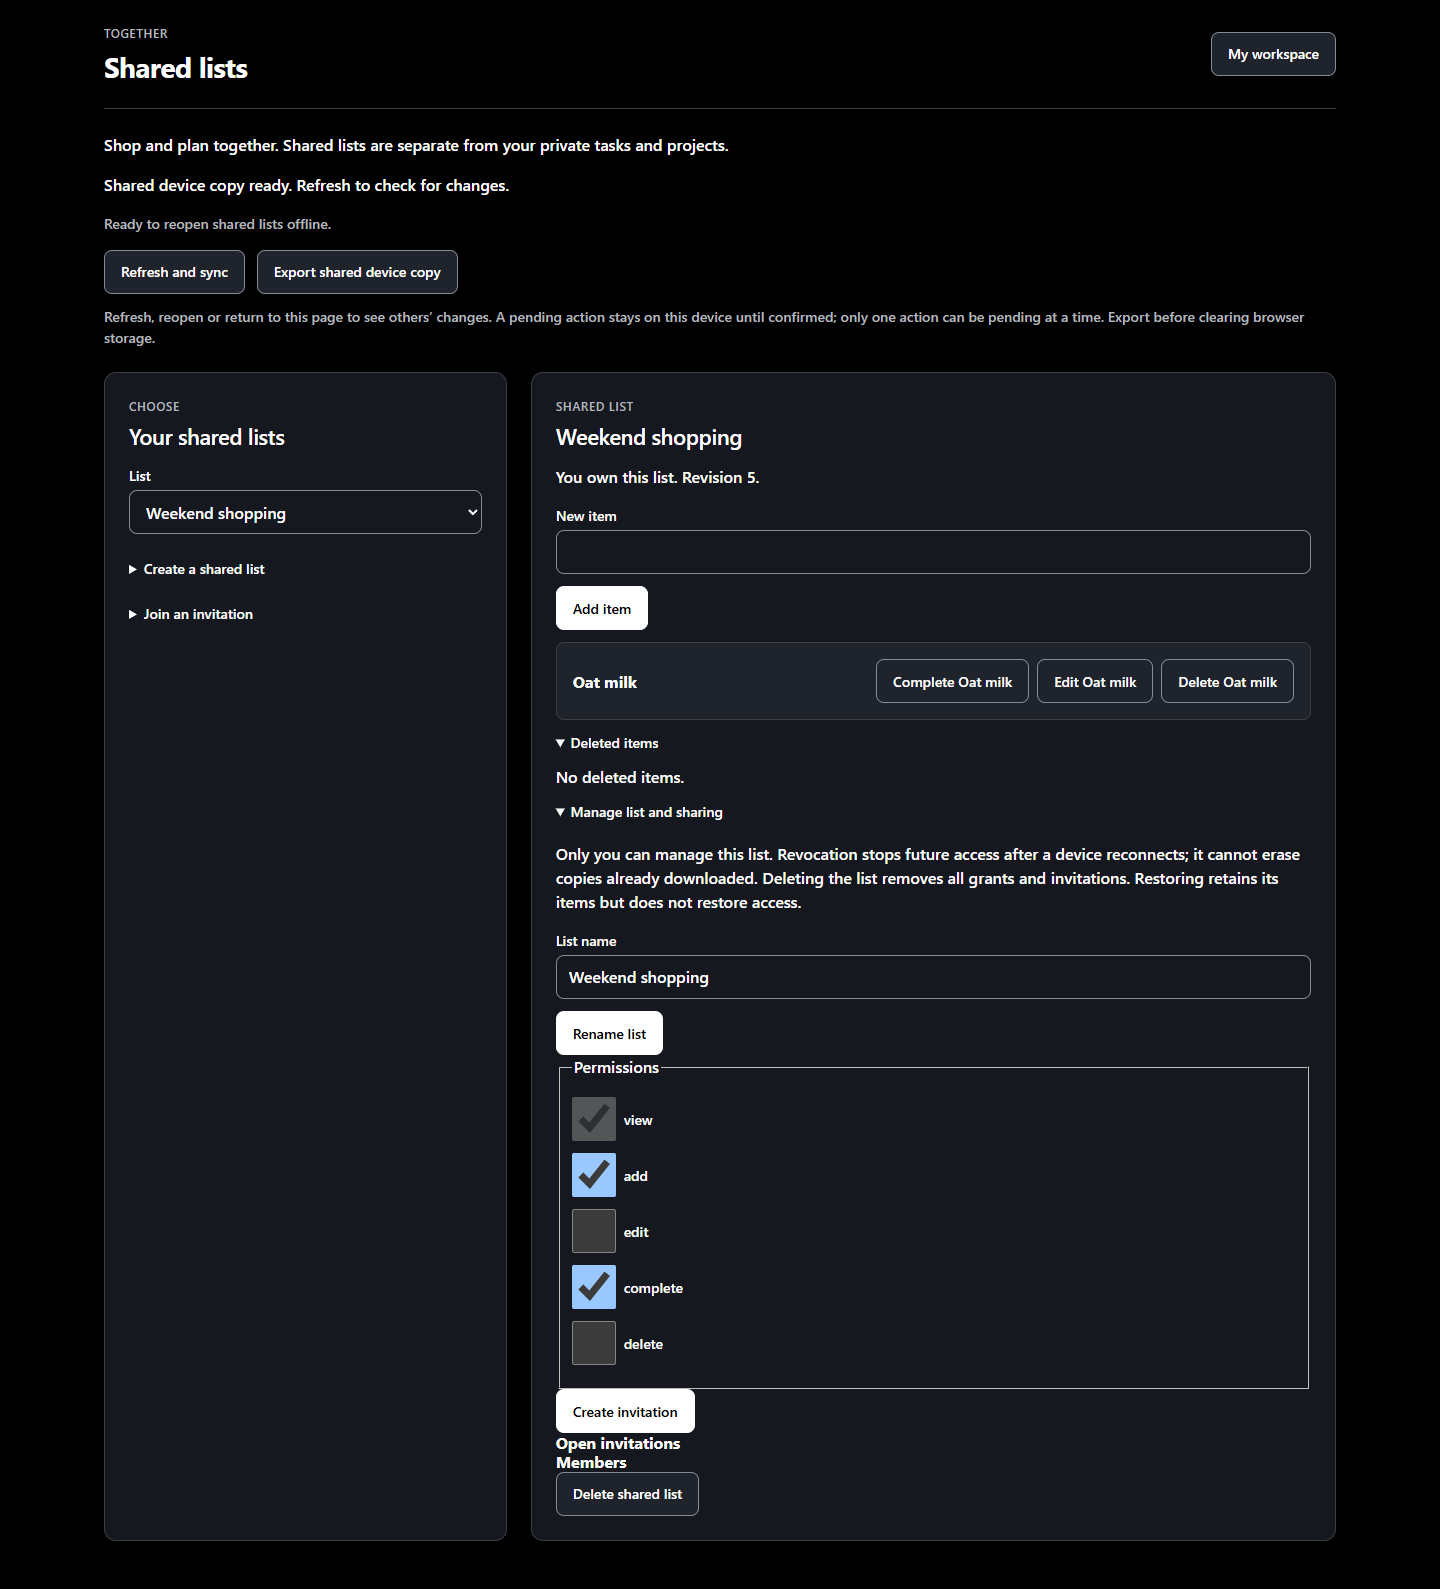
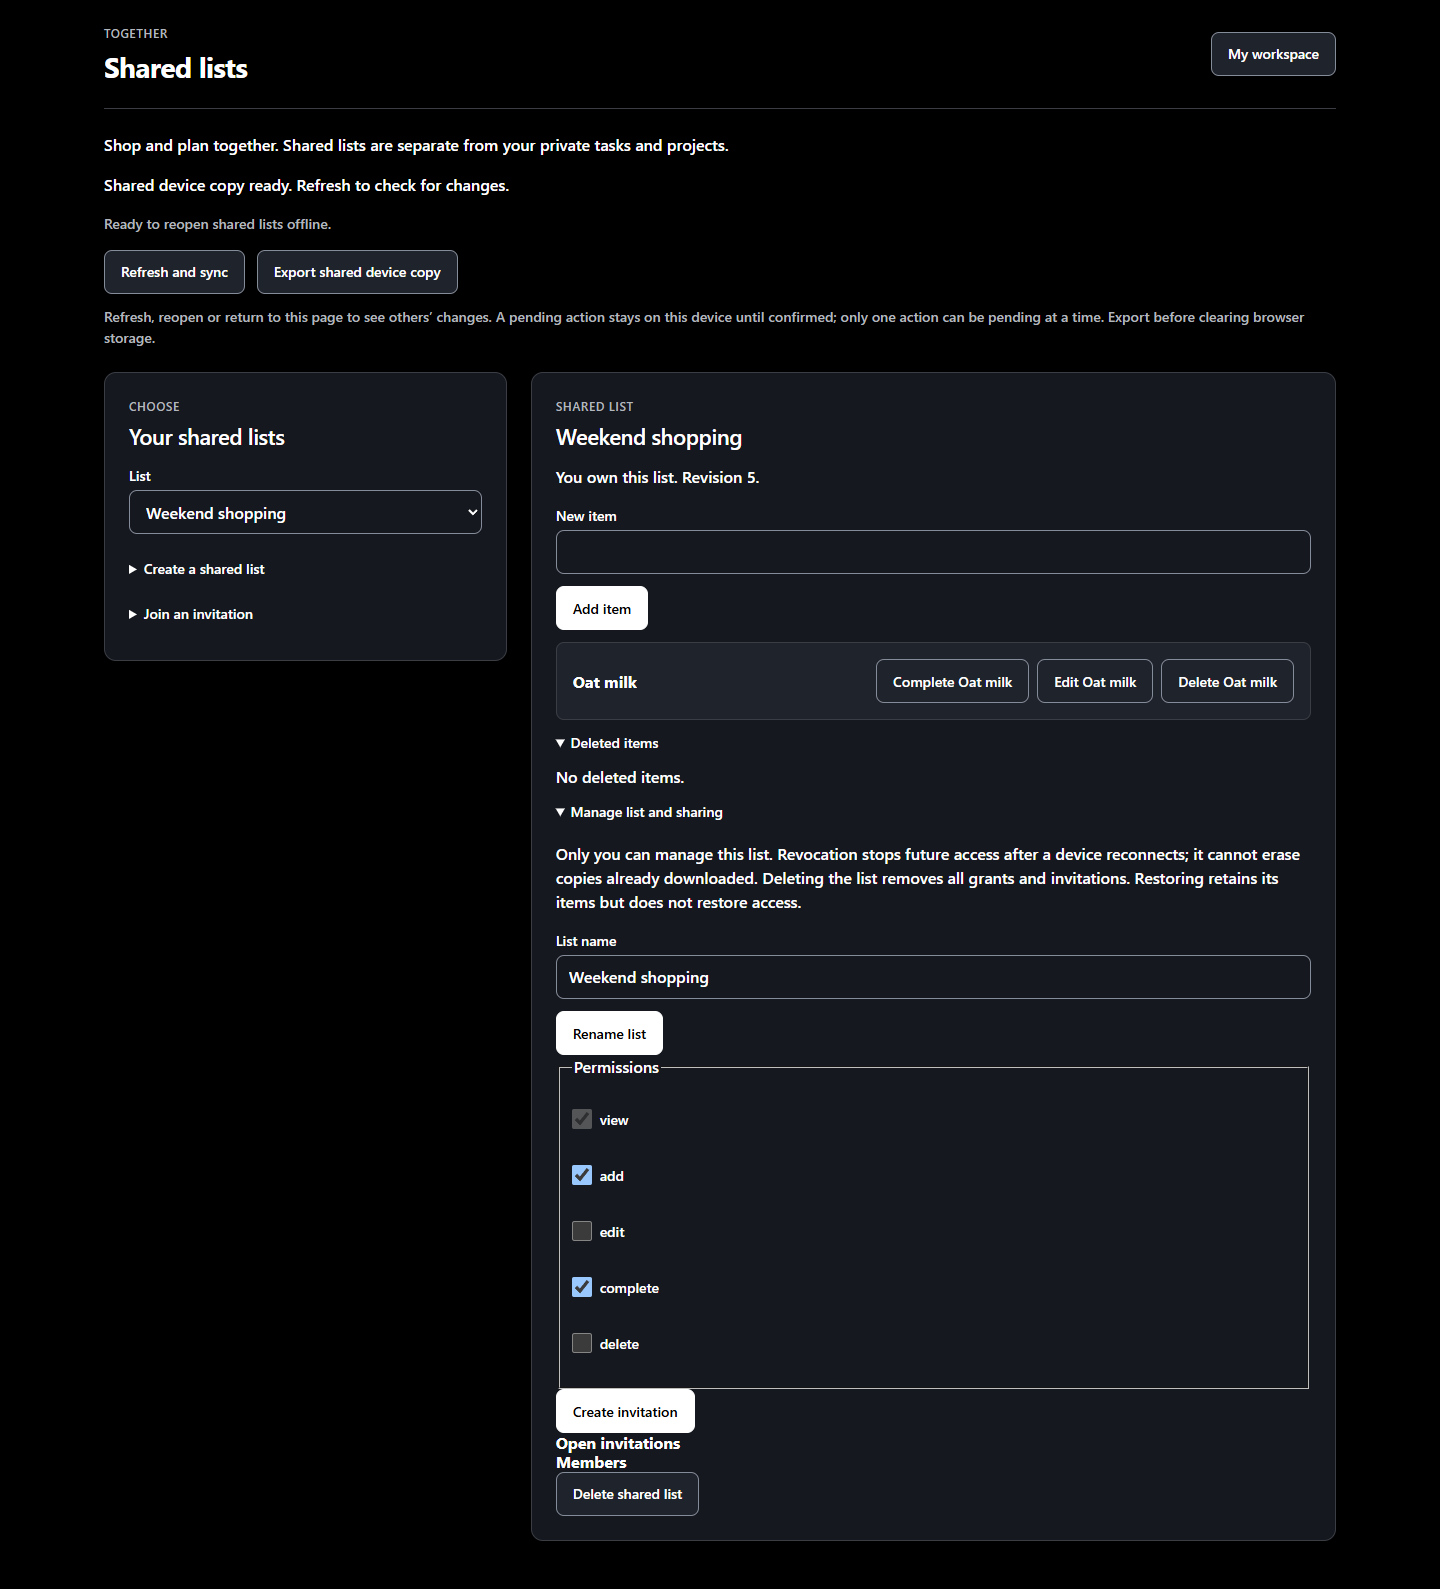
Verify durable shared recovery and preserve unsaved export text

Changed region(s): [[0.0625, 0.4009, 0.4688, 0.9868]]

diff --git a/html/shared.css b/html/shared.css
@@ -1,9 +1,9 @@
-.shared-grid { display: grid; grid-template-columns: minmax(220px, 1fr) minmax(0, 2fr); gap: var(--space-6); margin-top: var(--space-6); }
+.shared-grid { display: grid; grid-template-columns: minmax(220px, 1fr) minmax(0, 2fr); gap: var(--space-6); margin-top: var(--space-6); align-items: start; }
 .shared-grid .card, #sharedPending { margin-bottom: var(--space-4); }
 #sharedItems article, #sharedDeleted article { display: flex; align-items: center; justify-content: space-between; gap: var(--space-3); flex-wrap: wrap; }
 #sharedItems h3, #sharedDeleted h3 { margin: 0; overflow-wrap: anywhere; }
-#sharedMain fieldset label { display: flex; align-items: center; gap: var(--space-2); }
-#sharedMain input[type="checkbox"] { display: inline-block; width: var(--target); height: var(--target); margin: 0; }
+#sharedMain fieldset label { display: flex; align-items: center; gap: var(--space-2); min-height: var(--target); }
+#sharedMain input[type="checkbox"] { display: inline-block; width: 20px; height: 20px; min-height: 20px; margin: 0; }
 #sharedMain pre, #sharedAccess { white-space: pre-wrap; overflow-wrap: anywhere; }
 #sharedEditor { width: min(560px, calc(100% - 32px)); }
 @media (max-width: 767px) { .shared-grid { grid-template-columns: minmax(0, 1fr); } }

diff --git a/html/shared.js b/html/shared.js
@@ -81,6 +81,8 @@ function restoreInputs() {
 }
 function render() {
   if (!accountId) return;
+  $('sharedMain').setAttribute('aria-busy', String(working || syncing));
+  $('sharedExport').disabled = working;
   const list = current(), focused = document.activeElement;
   const entries = new Map(state.directory.map(item => [item.id, item]));
   for (const item of Object.values(state.lists)) entries.set(item.id, item);
@@ -217,7 +219,7 @@ async function save(action, fields, id = state.selected, revision = current()?.r
 async function run(action) {
   if (working) return;
   working = true; message('sharedError', '');
-  try { await action(); }
+  try { const result = action(); render(); await result; }
   catch (error) { message('sharedError', error.message + ' Your entered text is kept.'); }
   finally { working = false; render(); }
 }
